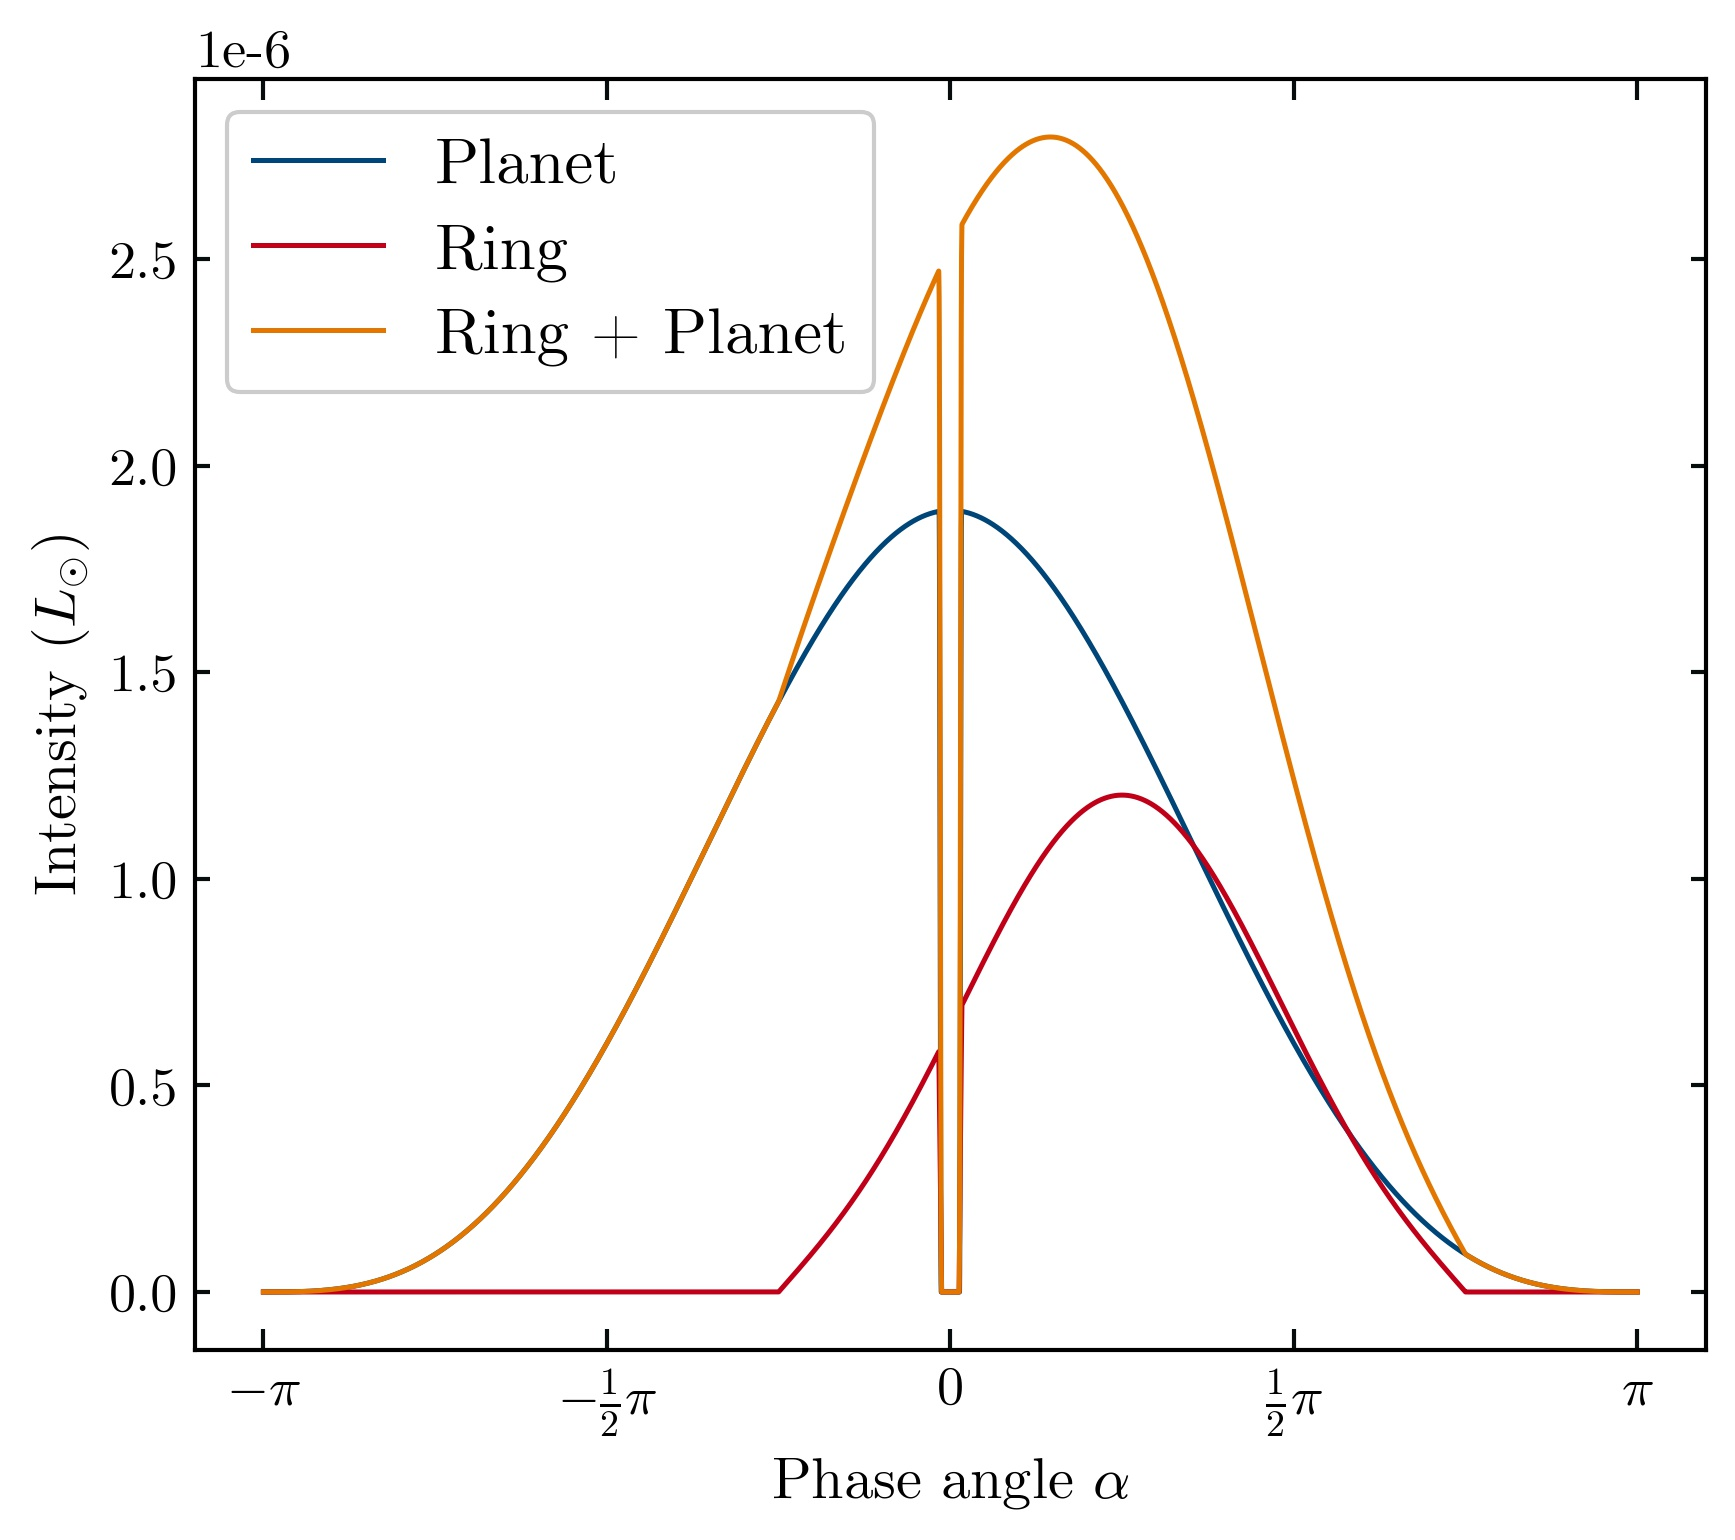
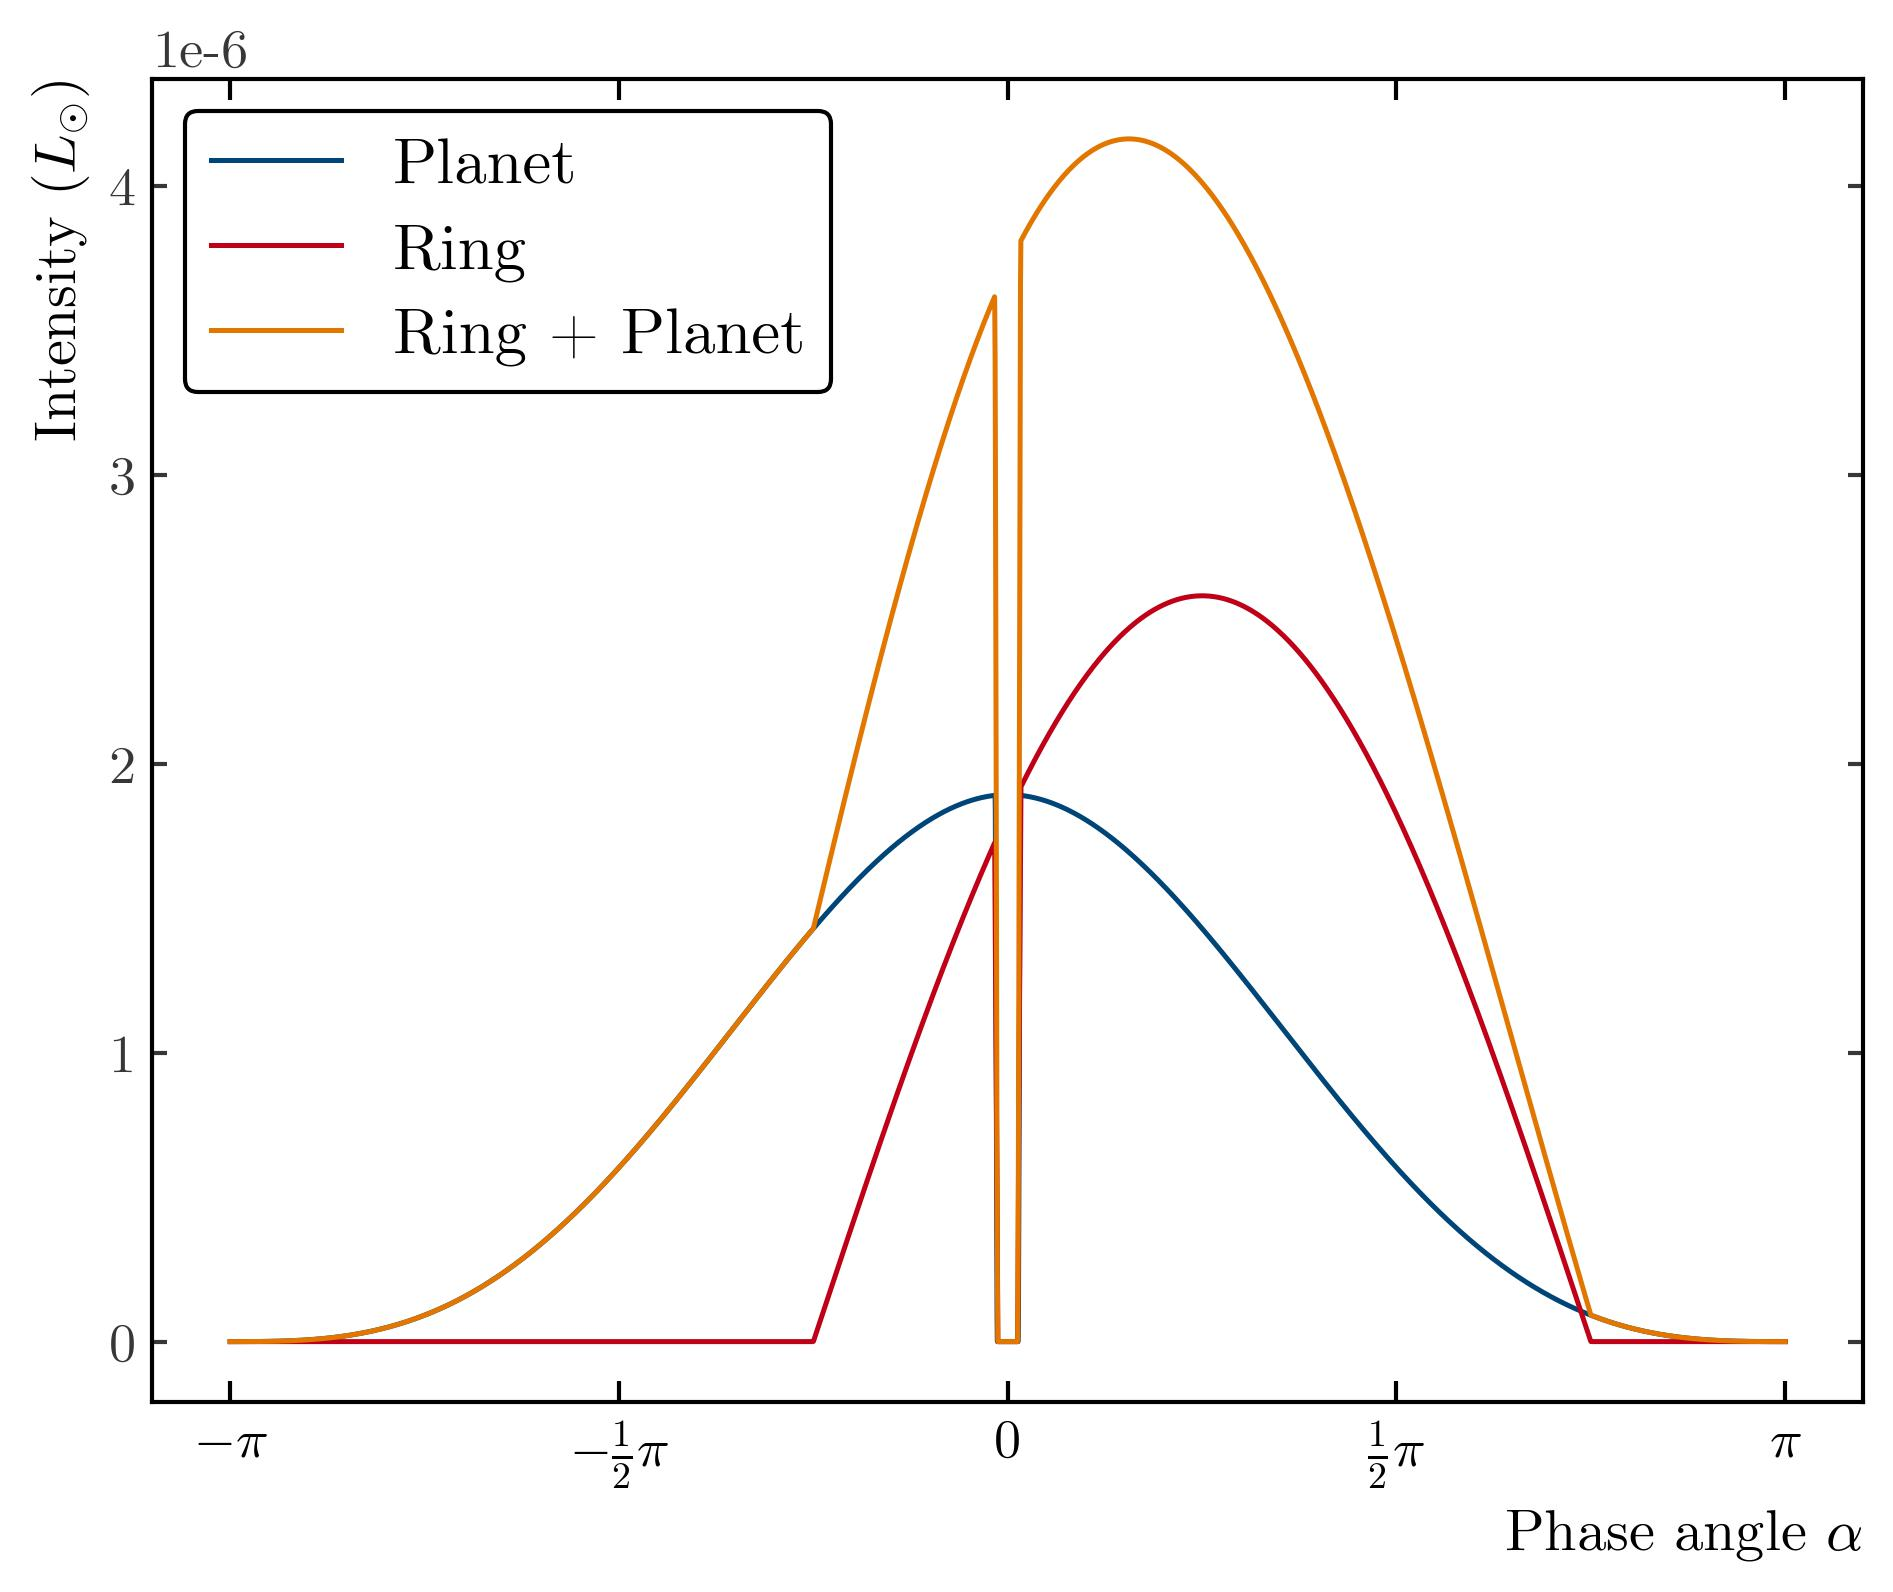
got everything working again

diff --git a/exoring_functions.py b/exoring_functions.py
@@ -153,7 +153,7 @@ class Animation:
         ax.set_xlim3d([x_middle - plot_radius, x_middle + plot_radius])
         ax.set_ylim3d([y_middle - plot_radius, y_middle + plot_radius])
         ax.set_zlim3d([z_middle - plot_radius, z_middle + plot_radius])
-
+            
     def generate_sphere_coords(self, centre, sphere_radius, sampling_num):
         theta = np.radians(np.linspace(0, 180, sampling_num, endpoint=True))
         phi = np.radians(np.linspace(0, 360, sampling_num, endpoint=True))
@@ -260,7 +260,7 @@ class Animation:
             axs2.plot_surface(
                 x_coords, y_coords, z_coords, color='blue',
                 linewidth=0, antialiased=False, rstride=1, cstride=1, alpha=1)
-
+            fig.tight_layout()
         ani = animation.FuncAnimation(fig, update, frames=num_frames, init_func=init, blit=False)
         ani.save('gifs/animated_graph.gif', writer='pillow', fps=20)  # Adjust the filename and frames per second as needed
 
@@ -270,3 +270,41 @@ def circle_section_integral(radius, bounds: []):
     bottom = radius ** 2 * np.arcsin(bounds[0] / radius) + bounds[0] * np.sqrt(radius ** 2 - bounds[0] ** 2)
     integration_result = upper - bottom
     return integration_result
+
+def overlap_area(r_circle, r_ellipse, mu, cos_phi, sin_phi, offset):
+    def find_distance_from_ellipse_centre(a, b):
+        return (a * cos_phi + b * sin_phi) ** 2 + (1 / mu ** 2) * (-a * sin_phi + b * cos_phi) ** 2
+    
+    angles = np.linspace(0, 2*np.pi, 2000)
+    xs = r_circle*np.cos(angles) + offset
+    ys = r_circle*np.sin(angles)
+    in_ellipse = (find_distance_from_ellipse_centre(xs, ys) < r_ellipse**2)
+    x = xs[np.roll(in_ellipse, 1) != in_ellipse]
+    y = ys[np.roll(in_ellipse, 1) != in_ellipse]
+            
+    if len(x) == 0:
+        if np.abs(offset) < r_circle:
+            return np.pi*mu*r_ellipse**2
+        else:
+            return 0.
+        
+            
+    x_prime = (x*cos_phi - y*sin_phi)
+    y_prime = (y*cos_phi + x*sin_phi)/mu
+            #plt.scatter(y, z)
+            #plt.scatter(y_prime, z_prime)
+            
+            
+    circle_rot_angle = np.arctan((x[1]-x[0])/(y[1]-y[0]))
+            
+    x_circle_prime = (x-offset)*np.cos(circle_rot_angle) - y*np.sin(circle_rot_angle)
+    #y_circle_prime = (x-offset)*np.sin(circle_rot_angle) + y*np.cos(circle_rot_angle)
+           
+    circle_section_area = np.abs(circle_section_integral(r_circle, bounds = [x_circle_prime[0], - np.sign(offset)*r_circle]))
+            
+    ellipse_rot_angle = np.arctan((x_prime[1]-x_prime[0])/(y_prime[1]-y_prime[0]))
+    x_ellipse_prime = x_prime*np.cos(ellipse_rot_angle) - y_prime*np.sin(ellipse_rot_angle)
+    #y_ellipse_prime = x_prime*np.sin(ellipse_rot_angle) + y_prime*np.cos(ellipse_rot_angle)
+            
+    ellipse_section_area = mu * np.abs(circle_section_integral(r_ellipse, bounds = [x_ellipse_prime[0], np.sign(offset)*r_ellipse]))
+    return ellipse_section_area + circle_section_area

diff --git a/exoring_objects.py b/exoring_objects.py
@@ -112,12 +112,12 @@ class Ring:
                 mu_star: albedo / np.pi  # isotropic scattering law intensity distribution - 1/pi factor from
         # normalization
         self.normal = normal
-        self.secondary_eclipse = np.vectorize(self.unvectorized_secondary_eclipse)
+        self.secondary_eclipse = np.vectorize(self.analytic_secondary_eclipse)
         self.star = star
 
     def get_mu_star(self, alpha):
         """mu_star = cos(angle between star and normal to ring)"""
-        star_pos = np.array([np.cos(alpha), np.sin(alpha), 0.])
+        star_pos = np.array([np.cos(alpha), np.sin(alpha), np.zeros(np.shape(alpha))])
         return np.dot(self.normal, star_pos)
 
     def get_mu(self):
@@ -180,7 +180,34 @@ class Ring:
         #    bounds_y, bounds_z, 10000)
         # print(abs(1 - numerator / denominator)) # numerical errors may bring this down to 0
         return abs(1 - numerator / denominator)  # numerical errors may bring this down to 0
+    
+    def analytic_secondary_eclipse(self, alpha):
+        if np.abs(alpha) > 4.0 * self.star.radius / self.star.distance:
+            return 1.
+        
+        if np.abs(alpha) < 0.05:
+            break_val = 'filler'
+        
+        mu = self.get_mu()
+        n_x, n_y, n_z = self.normal
 
+        y_star = self.star.distance * np.sin(alpha)
+        z_star = 0.
+        
+        #sorry im using a negative version of phi as compared to the above
+        sin_theta = np.sqrt(1 - mu ** 2)
+        cos_phi = n_z / sin_theta
+        sin_phi = -n_y / sin_theta
+        
+        
+        outer_area = exoring_functions.overlap_area(self.star.radius, self.outer_radius, mu, cos_phi, sin_phi, y_star)
+        inner_area = exoring_functions.overlap_area(self.star.radius, self.inner_radius, mu, cos_phi, sin_phi, y_star)
+        area_on_ring = outer_area - inner_area
+        total_ring_area = mu * np.pi * (self.outer_radius**2 - self.inner_radius**2)# - self.inner_radius**2)
+        if area_on_ring < 0:
+            print('Alpha: %.3f Area on outer: %.4f, area on inner: %.4f' %(alpha, outer_area))#, inner_area))
+        return 1. - (area_on_ring / total_ring_area)
+            
     def light_curve(self, alpha):
         return (self.outer_radius ** 2 - self.inner_radius ** 2) * self.phase_curve(alpha) * self.star.luminosity / (
                 4 * self.star.distance ** 2)

diff --git a/main.py b/main.py
@@ -43,6 +43,7 @@ ax.xaxis.set_major_locator(tck.MultipleLocator(base=1 / 2))
 ax.set_xlabel(r'Phase angle $\alpha$')
 ax.set_ylabel(r'Intensity ($L_{\odot}$)')
 ax.legend()
+plt.tight_layout()
 fig.savefig('images/light_curves.jpg', bbox_inches="tight")
 
 fig, ax = plt.subplots()
@@ -53,4 +54,5 @@ ax.xaxis.set_major_locator(tck.MultipleLocator(base=1 / 2))
 ax.set_xlabel(r'Phase angle $\alpha$')
 ax.set_ylabel(r'Intensity ($L_{\odot}$)')
 ax.legend()
+plt.tight_layout()
 fig.savefig('images/light_curves_with_star.jpg', bbox_inches="tight")
